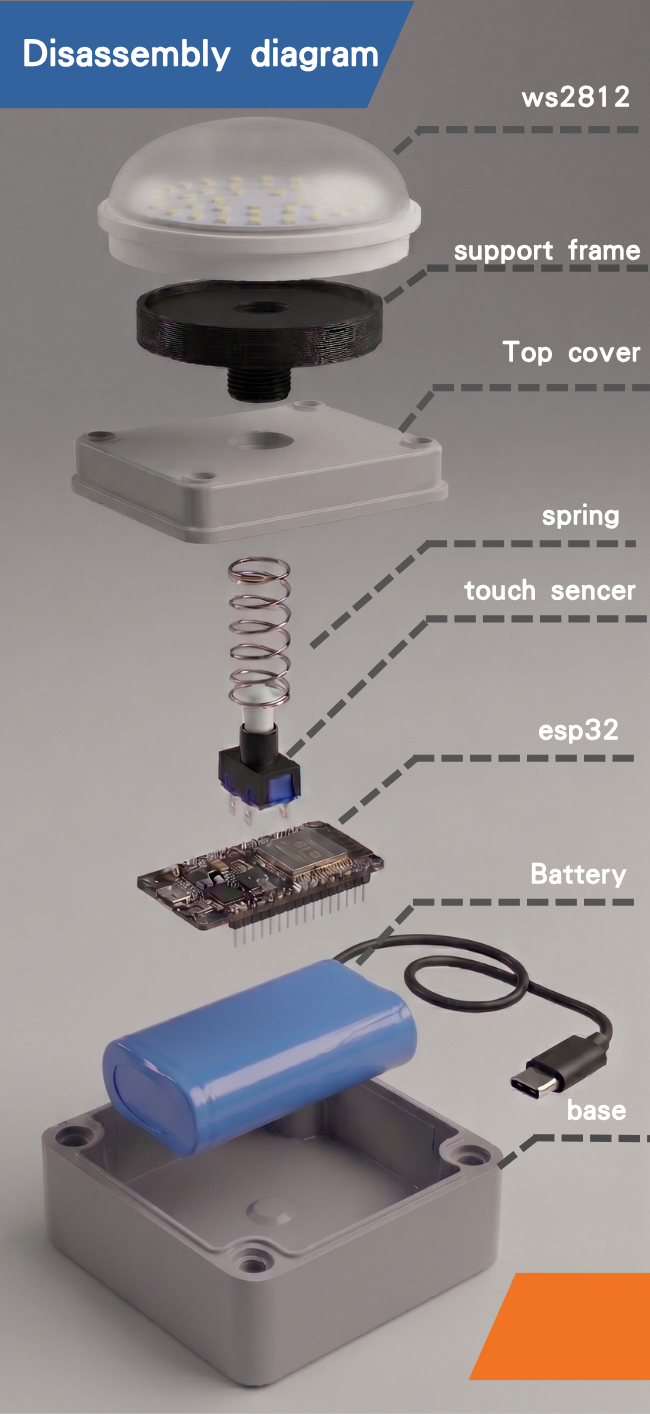
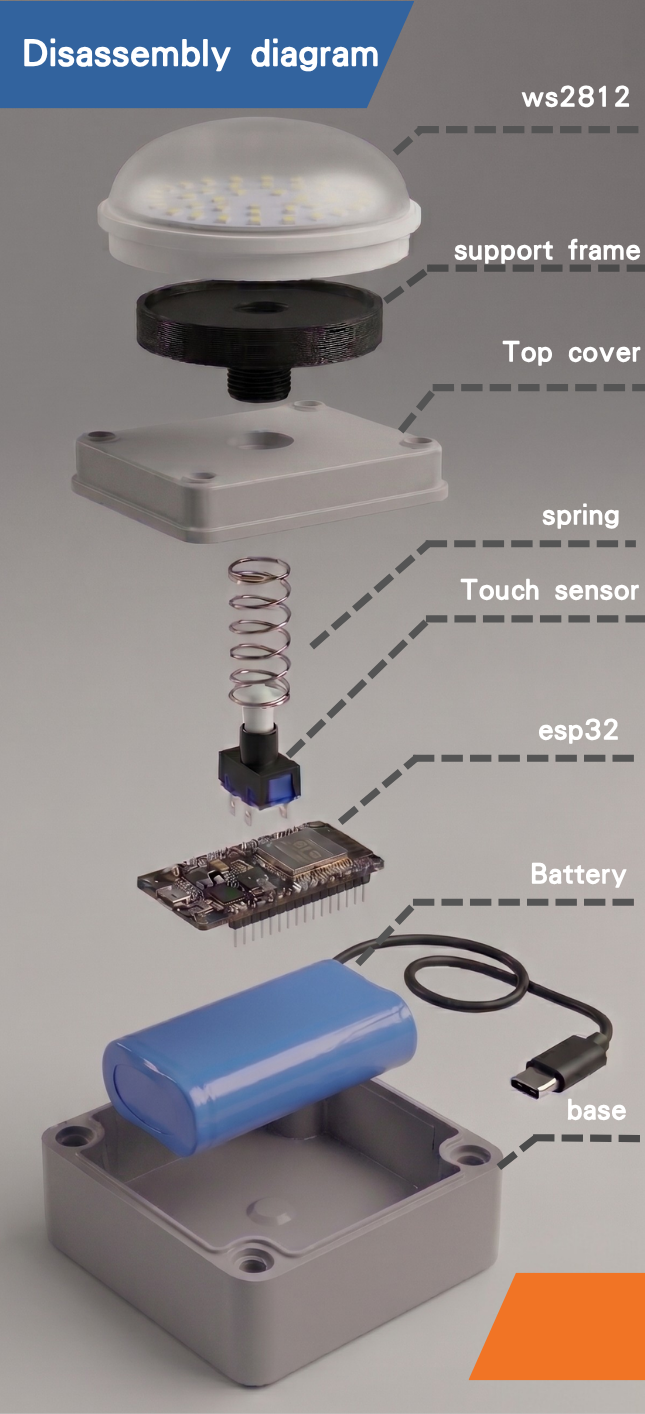
V30

diff --git a/js/pages/product.js b/js/pages/product.js
@@ -1,95 +1,95 @@
 window.renderProduct = function(app, t) {
     app.innerHTML = `
-        <section class="max-w-6xl mx-auto px-6 pt-12">
-            <div class="text-center mb-16">
+        <section class="max-w-6xl mx-auto px-4 md:px-6 pt-8 md:pt-12">
+            <div class="text-center mb-10 md:mb-16">
                 <span class="text-xs font-bold uppercase tracking-widest text-blue-600">Hardware & Industrial Design</span>
                 <h2 class="text-3xl md:text-5xl font-bold tracking-tight mt-2">${t.explodedTitle}</h2>
-                <p class="text-gray-500 mt-4 max-w-xl mx-auto">${t.explodedSub}</p>
+                <p class="text-gray-500 mt-3 md:mt-4 text-sm md:text-base max-w-xl mx-auto">${t.explodedSub}</p>
             </div>
 
-            <div class="grid grid-cols-1 lg:grid-cols-12 gap-12 items-start mb-24">
+            <div class="grid grid-cols-1 lg:grid-cols-12 gap-6 lg:gap-12 items-start mb-16 lg:mb-24">
                 
-                <div class="lg:col-span-5 sticky top-28 flex justify-center bg-gray-50 p-4 rounded-[2.5rem] border border-gray-100 shadow-inner">
-                    <img src="assets/images/disassembly.png" alt="GlowHit 3D Disassembly Diagram" class="w-full h-auto max-w-md rounded-2xl object-contain mix-blend-multiply">
+                <div class="lg:col-span-5 lg:sticky lg:top-28 relative flex justify-center bg-gray-50 p-4 rounded-[2rem] lg:rounded-[2.5rem] border border-gray-100 shadow-inner mb-4 lg:mb-0">
+                    <img src="assets/images/disassembly.png" alt="GlowHit 3D Disassembly Diagram" class="w-full h-auto max-w-sm lg:max-w-md rounded-2xl object-contain mix-blend-multiply">
                 </div>
 
-                <div class="lg:col-span-7 space-y-4">
+                <div class="lg:col-span-7 space-y-3 md:space-y-4">
                     
-                    <div class="bg-white border border-gray-100 p-6 rounded-2xl shadow-sm transition duration-300 hover:border-gray-300 hover:shadow-md">
+                    <div class="bg-white border border-gray-100 p-5 md:p-6 rounded-2xl shadow-sm transition duration-300 hover:border-gray-300 hover:shadow-md">
                         <h4 class="text-base font-bold text-gray-900 mb-1 flex items-center space-x-2">
                             <span class="w-2 h-2 rounded-full bg-cyan-400"></span>
                             <span>${t.partWs2812}</span>
                         </h4>
-                        <p class="text-xs text-gray-500 leading-relaxed pl-4">${t.partWs2812Desc}</p>
+                        <p class="text-xs md:text-sm text-gray-500 leading-relaxed pl-4">${t.partWs2812Desc}</p>
                     </div>
 
-                    <div class="bg-white border border-gray-100 p-6 rounded-2xl shadow-sm transition duration-300 hover:border-gray-300 hover:shadow-md">
+                    <div class="bg-white border border-gray-100 p-5 md:p-6 rounded-2xl shadow-sm transition duration-300 hover:border-gray-300 hover:shadow-md">
                         <h4 class="text-base font-bold text-gray-900 mb-1 flex items-center space-x-2">
                             <span class="w-2 h-2 rounded-full bg-gray-600"></span>
                             <span>${t.partSupport}</span>
                         </h4>
-                        <p class="text-xs text-gray-500 leading-relaxed pl-4">${t.partSupportDesc}</p>
+                        <p class="text-xs md:text-sm text-gray-500 leading-relaxed pl-4">${t.partSupportDesc}</p>
                     </div>
 
-                    <div class="bg-white border border-gray-100 p-6 rounded-2xl shadow-sm transition duration-300 hover:border-gray-300 hover:shadow-md">
+                    <div class="bg-white border border-gray-100 p-5 md:p-6 rounded-2xl shadow-sm transition duration-300 hover:border-gray-300 hover:shadow-md">
                         <h4 class="text-base font-bold text-gray-900 mb-1 flex items-center space-x-2">
                             <span class="w-2 h-2 rounded-full bg-gray-400"></span>
                             <span>${t.partTopCover}</span>
                         </h4>
-                        <p class="text-xs text-gray-500 leading-relaxed pl-4">${t.partTopCoverDesc}</p>
+                        <p class="text-xs md:text-sm text-gray-500 leading-relaxed pl-4">${t.partTopCoverDesc}</p>
                     </div>
 
-                    <div class="bg-white border border-gray-100 p-6 rounded-2xl shadow-sm transition duration-300 hover:border-gray-300 hover:shadow-md">
+                    <div class="bg-white border border-gray-100 p-5 md:p-6 rounded-2xl shadow-sm transition duration-300 hover:border-gray-300 hover:shadow-md">
                         <h4 class="text-base font-bold text-gray-900 mb-1 flex items-center space-x-2">
                             <span class="w-2 h-2 rounded-full bg-indigo-400"></span>
                             <span>${t.partSpring}</span>
                         </h4>
-                        <p class="text-xs text-gray-500 leading-relaxed pl-4">${t.partSpringDesc}</p>
+                        <p class="text-xs md:text-sm text-gray-500 leading-relaxed pl-4">${t.partSpringDesc}</p>
                     </div>
 
-                    <div class="bg-white border border-gray-100 p-6 rounded-2xl shadow-sm transition duration-300 hover:border-gray-300 hover:shadow-md">
+                    <div class="bg-white border border-gray-100 p-5 md:p-6 rounded-2xl shadow-sm transition duration-300 hover:border-gray-300 hover:shadow-md">
                         <h4 class="text-base font-bold text-gray-900 mb-1 flex items-center space-x-2">
                             <span class="w-2 h-2 rounded-full bg-blue-500"></span>
                             <span>${t.partTouch}</span>
                         </h4>
-                        <p class="text-xs text-gray-500 leading-relaxed pl-4">${t.partTouchDesc}</p>
+                        <p class="text-xs md:text-sm text-gray-500 leading-relaxed pl-4">${t.partTouchDesc}</p>
                     </div>
 
-                    <div class="bg-white border border-gray-100 p-6 rounded-2xl shadow-sm transition duration-300 hover:border-gray-300 hover:shadow-md">
+                    <div class="bg-white border border-gray-100 p-5 md:p-6 rounded-2xl shadow-sm transition duration-300 hover:border-gray-300 hover:shadow-md">
                         <h4 class="text-base font-bold text-gray-900 mb-1 flex items-center space-x-2">
                             <span class="w-2 h-2 rounded-full bg-purple-500"></span>
                             <span>${t.partEsp32}</span>
                         </h4>
-                        <p class="text-xs text-gray-500 leading-relaxed pl-4">${t.partEsp32Desc}</p>
+                        <p class="text-xs md:text-sm text-gray-500 leading-relaxed pl-4">${t.partEsp32Desc}</p>
                     </div>
 
-                    <div class="bg-white border border-gray-100 p-6 rounded-2xl shadow-sm transition duration-300 hover:border-gray-300 hover:shadow-md">
+                    <div class="bg-white border border-gray-100 p-5 md:p-6 rounded-2xl shadow-sm transition duration-300 hover:border-gray-300 hover:shadow-md">
                         <h4 class="text-base font-bold text-gray-900 mb-1 flex items-center space-x-2">
                             <span class="w-2 h-2 rounded-full bg-orange-400"></span>
                             <span>${t.partBattery}</span>
                         </h4>
-                        <p class="text-xs text-gray-500 leading-relaxed pl-4">${t.partBatteryDesc}</p>
+                        <p class="text-xs md:text-sm text-gray-500 leading-relaxed pl-4">${t.partBatteryDesc}</p>
                     </div>
 
-                    <div class="bg-white border border-gray-100 p-6 rounded-2xl shadow-sm transition duration-300 hover:border-gray-300 hover:shadow-md">
+                    <div class="bg-white border border-gray-100 p-5 md:p-6 rounded-2xl shadow-sm transition duration-300 hover:border-gray-300 hover:shadow-md">
                         <h4 class="text-base font-bold text-gray-900 mb-1 flex items-center space-x-2">
                             <span class="w-2 h-2 rounded-full bg-gray-500"></span>
                             <span>${t.partBase}</span>
                         </h4>
-                        <p class="text-xs text-gray-500 leading-relaxed pl-4">${t.partBaseDesc}</p>
+                        <p class="text-xs md:text-sm text-gray-500 leading-relaxed pl-4">${t.partBaseDesc}</p>
                     </div>
 
                 </div>
             </div>
 
-            <div class="border-t border-gray-200 pt-20">
-                <div class="text-center mb-16">
+            <div class="border-t border-gray-200 pt-16 md:pt-20">
+                <div class="text-center mb-10 md:mb-16">
                     <h3 class="text-2xl md:text-4xl font-bold tracking-tight">${t.layoutTitle}</h3>
-                    <p class="text-gray-500 mt-2 text-sm">${t.layoutSub}</p>
+                    <p class="text-gray-500 mt-2 text-xs md:text-sm">${t.layoutSub}</p>
                 </div>
                 
-                <div class="grid grid-cols-1 md:grid-cols-3 gap-8">
-                    <div class="apple-card p-6 bg-white border border-gray-100 flex flex-col justify-between transition-transform duration-300 hover:-translate-y-1">
+                <div class="grid grid-cols-1 md:grid-cols-3 gap-6 md:gap-8">
+                    <div class="apple-card p-5 md:p-6 bg-white border border-gray-100 flex flex-col justify-between transition-transform duration-300 hover:-translate-y-1">
                         <div>
                             <div class="w-full h-40 bg-gray-50 rounded-2xl mb-4 overflow-hidden flex items-center justify-center p-2 border border-gray-50">
                                 <img src="assets/images/layout_honeycomb.png" alt="Honeycomb Layout" class="w-full h-full object-contain mix-blend-multiply">
@@ -98,11 +98,11 @@ window.renderProduct = function(app, t) {
                                 <i data-lucide="layout-grid" class="w-5 h-5"></i>
                                 <h5 class="font-bold text-lg text-gray-900">${t.layoutHoneycomb}</h5>
                             </div>
-                            <p class="text-xs text-gray-500 leading-relaxed">${t.layoutHoneycombDesc}</p>
+                            <p class="text-xs md:text-sm text-gray-500 leading-relaxed">${t.layoutHoneycombDesc}</p>
                         </div>
                     </div>
                     
-                    <div class="apple-card p-6 bg-white border border-gray-100 flex flex-col justify-between transition-transform duration-300 hover:-translate-y-1">
+                    <div class="apple-card p-5 md:p-6 bg-white border border-gray-100 flex flex-col justify-between transition-transform duration-300 hover:-translate-y-1">
                         <div>
                             <div class="w-full h-40 bg-gray-50 rounded-2xl mb-4 overflow-hidden flex items-center justify-center p-2 border border-gray-50">
                                 <img src="assets/images/layout_matrix.png" alt="Matrix Layout" class="w-full h-full object-contain mix-blend-multiply">
@@ -111,11 +111,11 @@ window.renderProduct = function(app, t) {
                                 <i data-lucide="grid" class="w-5 h-5"></i>
                                 <h5 class="font-bold text-lg text-gray-900">${t.layoutMatrix}</h5>
                             </div>
-                            <p class="text-xs text-gray-500 leading-relaxed">${t.layoutMatrixDesc}</p>
+                            <p class="text-xs md:text-sm text-gray-500 leading-relaxed">${t.layoutMatrixDesc}</p>
                         </div>
                     </div>
 
-                    <div class="apple-card p-6 bg-white border border-gray-100 flex flex-col justify-between transition-transform duration-300 hover:-translate-y-1">
+                    <div class="apple-card p-5 md:p-6 bg-white border border-gray-100 flex flex-col justify-between transition-transform duration-300 hover:-translate-y-1">
                         <div>
                             <div class="w-full h-40 bg-gray-50 rounded-2xl mb-4 overflow-hidden flex items-center justify-center p-2 border border-gray-50">
                                 <img src="assets/images/layout_random.png" alt="Random DIY Layout" class="w-full h-full object-contain mix-blend-multiply">
@@ -124,7 +124,7 @@ window.renderProduct = function(app, t) {
                                 <i data-lucide="shuffle" class="w-5 h-5"></i>
                                 <h5 class="font-bold text-lg text-gray-900">${t.layoutRandom}</h5>
                             </div>
-                            <p class="text-xs text-gray-500 leading-relaxed">${t.layoutRandomDesc}</p>
+                            <p class="text-xs md:text-sm text-gray-500 leading-relaxed">${t.layoutRandomDesc}</p>
                         </div>
                     </div>
                 </div>
@@ -132,4 +132,4 @@ window.renderProduct = function(app, t) {
         </section>
     `;
     lucide.createIcons();
-}; 
+};

diff --git a/js/data/zh-tw.js b/js/data/zh-tw.js
@@ -23,7 +23,7 @@ window.translations['zh'] = {
     highlightSportDesc: "系統會不規則性地亮起不同顏色的燈光模組，使用者必須拍打指定顏色或位置的模組，進而達到運動的效果。可用於日常反應力訓練。",
     highlightSportCTA: "立即模擬運動測試",
     highlightHomeTitle: "靜態-居家智能氛圍燈",
-    highlightHomeDesc: "運動結束，一鍵無縫化身為牆面燈飾。完美接入 Apple Home 家庭生態系。日後更可延生燈光感應模組，實現自動開啟。 ",
+    highlightHomeDesc: "運動結束，一鍵無縫化身為牆面燈飾。完美接入 Apple Home 家庭生態系。日後可延生燈光感應模組，實現自動開啟。 ",
     highlightHomeCTA: "調度 Apple Home 色調",
     legoTitle: "模組化具有無限擴充性",
     legoDesc: "結構以模組化概念進行開發，使用者可根據空間與預算，自由拼接為蜂巢狀、矩陣式 or 不規則布局。",
@@ -56,23 +56,23 @@ window.translations['zh'] = {
 
     // 產品拆解頁面 
     explodedTitle: "GlowHit 硬體架構分解",
-    explodedSub: "透視內部工業級感測結構，高密度的光電與通訊元件封裝，實現穩固耐用的全天候物理打擊感。",
-    partWs2812: "01. WS2812B 幻彩 LED 導光穹頂",
-    partWs2812Desc: "高透光圓形散光半球罩，將內部的 WS2812B 矩陣光源均勻擴散，呈現柔和、高飽和度且絕不刺眼的漫反射環境光效。",
-    partSupport: "02. 圓形核心支撐內架 (Support Frame)",
-    partSupportDesc: "工業級強化支撐環，精密契合上蓋結構，用於承載穹頂並均勻導導垂直與側向的實體衝擊力。",
-    partTopCover: "03. 結構強度上殼 (Top Cover)",
-    partTopCoverDesc: "採用高剛性複合材料射出成型，預留中心按壓通孔，為高強度折返跑踩踏與打擊提供核心結構支撐。",
-    partSpring: "04. 高彈力微動復位彈簧 (Spring)",
-    partSpringDesc: "精密計算彈性係數的鋼製線圈彈簧，提供完美的段落指尖回饋感，並確保每次打擊後能瞬間歸位。",
+    explodedSub: "透視內部結構，精細組裝，實現穩固耐用的全天候物理打擊感。",
+    partWs2812: "01. WS2812 LED 柔光罩",
+    partWs2812Desc: "高透光圓形散光球罩，將內部的 WS2812 光源均勻擴散，呈現柔和、高飽和度且不刺眼的光效。",
+    partSupport: "02. 圓形支撐架 (Support Frame)",
+    partSupportDesc: "圓形支撐架，用於承載上方柔光罩。",
+    partTopCover: "03. 結構上蓋 (Top Cover)",
+    partTopCoverDesc: "採用複合材料射出成型，預留中心按壓通孔，為高強度折返跑踩踏與打擊提供核心結構支撐。",
+    partSpring: "04. 微動復位彈簧 (Spring)",
+    partSpringDesc: "復位彈簧，確保每次打擊後能瞬間歸位。",
     partTouch: "05. 高敏捷觸覺感測器 (Touch Sensor)",
-    partTouchDesc: "核心感應觸點（微動開關），靈敏觸發、死角歸零，具備數百萬次耐久敲擊壽命，完美捕捉每一次極限碰撞。",
-    partEsp32: "06. ESP32 高效能核心控制板",
-    partEsp32Desc: "系統大腦。內建雙核處理晶片，整合低功耗藍牙 (BLE) 與高效 Wi-Fi，運行低延遲射頻網絡協議，處理毫秒級數據響應。",
-    partBattery: "07. 3000mAh 安全充電鋰電池組",
-    partBatteryDesc: "高容量獨立帶線超長續航電源模組，整合過充過放安全保護板，原生支援 5V Type-C 快速供電，實現完全擺脫線材的無線大地擺放。",
-    partBase: "08. 模組化底座外殼 (Base)",
-    partBaseDesc: "穩固的幾何防護底盒，四角預留防衝擊螺絲緊固孔，並完美相容 LEGO 結構底座，實現無限拼裝布局。",
+    partTouchDesc: "核心感應觸點（微動開關），靈敏觸發，，完美捕捉每一次極限碰撞。",
+    partEsp32: "06. ESP32 核心",
+    partEsp32Desc: "系統大腦。內建雙核處理晶片，低功耗藍牙 (BLE) 與高效 Wi-Fi，處理毫秒級數據。",
+    partBattery: "07. 3000mAh 充電鋰電池組",
+    partBatteryDesc: "獨立帶線長續航電源模組，原生支援 5V Type-C 供電，實現完全擺脫線材的無線大地擺放。",
+    partBase: "08. 模組化底座 (Base)",
+    partBaseDesc: "穩固的底盒，四角預留螺絲孔，實現無限拼裝布局。",
     layoutTitle: "空間適應力：隨心所欲的陣列布局",
     layoutSub: "根據場地、牆面空間或訓練指標，任意更改排列架構，完美適配多種專業方案。",
     layoutHoneycomb: "蜂巢狀 (Honeycomb)",